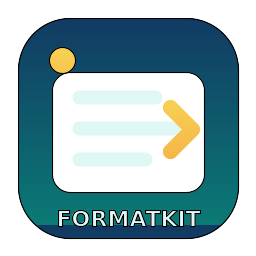
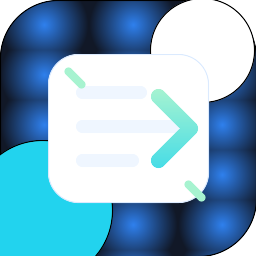
Remove personal branding and refresh artwork

diff --git a/src/extension.ts b/src/extension.ts
@@ -79,7 +79,7 @@ export function activate(context: vscode.ExtensionContext) {
 	context.subscriptions.push(
 		vscode.languages.registerDocumentFormattingEditProvider("openhab", {
 			provideDocumentFormattingEdits: (document, options, token) => {
-				let config = vscode.workspace.getConfiguration("miethe-openhab-formatkit");
+				let config = vscode.workspace.getConfiguration("openhab-formatkit");
 				// Check the file type, clean the file and format it
 				if (document.fileName.includes(".sitemap")) {
 					return config.enableBetaFeatures ? formatSitemapFile() : undefined;
@@ -105,27 +105,27 @@ export function activate(context: vscode.ExtensionContext) {
 	);
 
 	// Insert a generic item
-	vscode.commands.registerCommand("miethe-openhab-formatkit.insert-item-generic", () => {
+	vscode.commands.registerCommand("openhab-formatkit.insert-item-generic", () => {
 		commandInsertNewGenericItem();
 	});
 	// Insert a Switch item
-	vscode.commands.registerCommand("miethe-openhab-formatkit.insert-item-switch", () => {
+	vscode.commands.registerCommand("openhab-formatkit.insert-item-switch", () => {
 		commandInsertNewSwitchItem();
 	});
 	// Insert a Dimmer item
-	vscode.commands.registerCommand("miethe-openhab-formatkit.insert-item-dimmer", () => {
+	vscode.commands.registerCommand("openhab-formatkit.insert-item-dimmer", () => {
 		commandInsertNewDimmerItem();
 	});
 	// Insert a String item
-	vscode.commands.registerCommand("miethe-openhab-formatkit.insert-item-string", () => {
+	vscode.commands.registerCommand("openhab-formatkit.insert-item-string", () => {
 		commandInsertNewStringItem();
 	});
 	// Insert a Number item
-	vscode.commands.registerCommand("miethe-openhab-formatkit.insert-item-number", () => {
+	vscode.commands.registerCommand("openhab-formatkit.insert-item-number", () => {
 		commandInsertNewNumberItem();
 	});
 	// Insert a DateTime item
-	vscode.commands.registerCommand("miethe-openhab-formatkit.insert-item-datetime", () => {
+	vscode.commands.registerCommand("openhab-formatkit.insert-item-datetime", () => {
 		commandInsertNewDateTimeItem();
 	});
 
@@ -276,7 +276,7 @@ function formatItemFile(range?: vscode.Range): vscode.TextEdit[] {
 	var itemBlockCounter = 0;
 
 	// Get the format configuration settings
-	let config = vscode.workspace.getConfiguration("miethe-openhab-formatkit");
+	let config = vscode.workspace.getConfiguration("openhab-formatkit");
 	let preserveWhitespace = config.preserveWhitespace;
 	let newLineAfterItem = config.newLineAfterItem;
 
@@ -570,7 +570,7 @@ function formatThingFile(range?: vscode.Range): vscode.TextEdit[] {
 	let channelPending = false;
 
 	// Get the format configuration settings
-	let config = vscode.workspace.getConfiguration("miethe-openhab-formatkit");
+	let config = vscode.workspace.getConfiguration("openhab-formatkit");
 	let preserveWhitespace = config.preserveWhitespace;
 	let newLineAfterItem = config.newLineAfterItem;
 
@@ -832,7 +832,7 @@ function insertItem(type: string, name: string, label: string, icon: string, gro
  */
 function formatItem(item: Item): string {
 	// Get the configuration settings
-	let config = vscode.workspace.getConfiguration("miethe-openhab-formatkit");
+	let config = vscode.workspace.getConfiguration("openhab-formatkit");
 	let formatStyle = item.formatOption ? item.formatOption : config.formatStyle;
 	let newLineAfterItem = config.newLineAfterItem;
 	let editor = vscode.window.activeTextEditor;
@@ -972,7 +972,7 @@ function formatItem(item: Item): string {
  */
 function formatThing(thing: Thing): string {
 	// Get the configuration settings
-	let config = vscode.workspace.getConfiguration("miethe-openhab-formatkit");
+	let config = vscode.workspace.getConfiguration("openhab-formatkit");
 	let formatStyle = config.formatStyle;
 	let newLineAfterItem = config.newLineAfterItem;
 	let multilineIndentAmount = config.multilineIndentAmount;
@@ -1029,8 +1029,8 @@ function formatThing(thing: Thing): string {
  *---------------------------------------------------------------------------------------------------------*/
 function registerWhatsNew(context: vscode.ExtensionContext) {
 	const provider = new BookmarksContentProvider();
-	const viewer = new WhatsNewManager(context).registerContentProvider("ManuelMiethe", "miethe-openhab-formatkit", provider).registerSocialMediaProvider(new BookmarksSocialMediaProvider()).registerSponsorProvider(new BookmarksSponsorProvider());
+	const viewer = new WhatsNewManager(context).registerContentProvider("ManuelMiethe", "openhab-formatkit", provider).registerSocialMediaProvider(new BookmarksSocialMediaProvider()).registerSponsorProvider(new BookmarksSponsorProvider());
 	viewer.showPageInActivation();
-	context.subscriptions.push(commands.registerCommand("miethe-openhab-formatkit.whatsNew", () => viewer.showPage()));
-	context.subscriptions.push(commands.registerCommand("_miethe-openhab-formatkit.whatsNewContextMenu", () => viewer.showPage()));
+	context.subscriptions.push(commands.registerCommand("openhab-formatkit.whatsNew", () => viewer.showPage()));
+	context.subscriptions.push(commands.registerCommand("_openhab-formatkit.whatsNewContextMenu", () => viewer.showPage()));
 }

diff --git a/src/contentProvider.ts b/src/contentProvider.ts
@@ -10,7 +10,7 @@ export class BookmarksContentProvider implements ContentProvider {
 	public provideHeader(logoUrl: string): Header {
 		return <Header>{
 			logo: <Image>{ src: logoUrl, height: 50, width: 40 },
-			message: `<b>Miethe openHAB FormatKit</b> This extension adds support for formatting and indenting <a href="http://www.openhab.org)">openHAB</a>
+			message: `<b>openHAB FormatKit</b> This extension adds support for formatting and indenting <a href="http://www.openhab.org)">openHAB</a>
 			files like <code>*.items</code>, <code>*.sitemap</code>, etc. At the moment only
 			<code>*.items</code> and <code>*.sitemap</code> files are supported. They can be formatted in a column channel-column
 			or multiline style. In the future the other file types and other format-types will be added.
@@ -32,11 +32,11 @@ export class BookmarksContentProvider implements ContentProvider {
 		});
 		changeLog.push({
 			kind: ChangeLogKind.CHANGED,
-			detail: "This maintained fork is published as Miethe openHAB FormatKit under ManuelMiethe.miethe-openhab-formatkit.",
+			detail: "This maintained fork is published as openHAB FormatKit with an independent package identity.",
 		});
 		changeLog.push({
 			kind: ChangeLogKind.CHANGED,
-			detail: "Support ongoing maintenance: Buy Manuel Miethe a coffee at https://www.buymeacoffee.com/mannemiethe",
+			detail: "Support ongoing maintenance through feedback, issues, and pull requests.",
 		});
 		changeLog.push({
 			kind: ChangeLogKind.CHANGED,
@@ -85,9 +85,9 @@ export class BookmarksContentProvider implements ContentProvider {
 	public provideSupportChannels(): SupportChannel[] {
 		const supportChannels: SupportChannel[] = [];
 		supportChannels.push({
-			title: "Buy Manuel Miethe a coffee",
-			link: "https://www.buymeacoffee.com/mannemiethe",
-			message: "Support ongoing maintenance",
+			title: "Project issues and feedback",
+			link: "https://github.com/mannemiethe/openHAB-Alignment-Tool/issues",
+			message: "Report bugs or request improvements",
 		});
 		supportChannels.push({
 			title: "PayPal donation for the original developer",

diff --git a/README.md b/README.md
@@ -1,23 +1,19 @@
 <div align="center">
-  <img width="520" src="images/formatkit-wordmark.png" alt="Miethe openHAB FormatKit">
+  <img width="520" src="images/formatkit-wordmark.png" alt="openHAB FormatKit">
 </div>
 
-# Miethe openHAB FormatKit
+# openHAB FormatKit
 
-Miethe openHAB FormatKit is an independently maintained Visual Studio Code extension for formatting and cleaning up openHAB configuration files such as `.items` and `.sitemap` files.
+openHAB FormatKit is an independently maintained Visual Studio Code extension for formatting and cleaning up openHAB configuration files such as `.items` and `.sitemap` files.
 
-This project is maintained by Manuel Miethe. It is **not affiliated with, endorsed by, or published by** the original `openHAB Alignment Tool` author or project. The codebase began as a maintained fork of the inactive open-source project by Maximilian Beckenbauer, and that origin is credited here for transparency. All marketplace branding, icon artwork, package identity, README wording, and command/settings namespace have been changed for this independent release.
-
-[![Visual Studio Marketplace Installs](https://img.shields.io/visual-studio-marketplace/i/ManuelMiethe.miethe-openhab-formatkit?color=blue&label=Installs&logo=visual-studio-code)](https://marketplace.visualstudio.com/items?itemName=ManuelMiethe.miethe-openhab-formatkit)
-[![Visual Studio Marketplace Version](https://img.shields.io/visual-studio-marketplace/v/ManuelMiethe.miethe-openhab-formatkit?color=orange&label=Version)](https://marketplace.visualstudio.com/items?itemName=ManuelMiethe.miethe-openhab-formatkit)
-[![Visual Studio Marketplace Rating](https://img.shields.io/visual-studio-marketplace/stars/ManuelMiethe.miethe-openhab-formatkit?label=Rating&logo=visual-studio-code)](https://marketplace.visualstudio.com/items?itemName=ManuelMiethe.miethe-openhab-formatkit)
+This is an independently maintained project. It is **not affiliated with, endorsed by, or published by** the original `openHAB Alignment Tool` author or project. The codebase began as a maintained fork of the inactive open-source project by Maximilian Beckenbauer, and that origin is credited here for transparency. All marketplace branding, icon artwork, package identity, README wording, and command/settings namespace have been changed for this independent release.
 
 ## What changed for the independent release
 
-- Extension display name changed to **Miethe openHAB FormatKit**.
-- Marketplace package ID changed to `ManuelMiethe.miethe-openhab-formatkit`.
+- Extension display name changed to **openHAB FormatKit**.
+- Marketplace package ID changed to `openhab-formatkit` under the existing publisher account.
 - Extension icon and README wordmark replaced with newly created artwork under `images/formatkit-*`.
-- Commands and settings moved to the `miethe-openhab-formatkit.*` namespace.
+- Commands and settings moved to the `openhab-formatkit.*` namespace.
 - README and extension messaging rewritten to make the independent maintenance status clear.
 - Attribution to the original open-source project is kept without implying affiliation or endorsement.
 
@@ -68,7 +64,7 @@ It also corrects space-based column padding when `editor.insertSpaces` is enable
 Insert a new line after each item unless a single empty line already exists.
 
 ```json
-"miethe-openhab-formatkit.newLineAfterItem": true
+"openhab-formatkit.newLineAfterItem": true
 ```
 
 ### Preserve Whitespace
@@ -76,7 +72,7 @@ Insert a new line after each item unless a single empty line already exists.
 Preserve leading whitespace in front of items while reformatting.
 
 ```json
-"miethe-openhab-formatkit.preserveWhitespace": true
+"openhab-formatkit.preserveWhitespace": true
 ```
 
 ### Minimum Indent Amount
@@ -84,7 +80,7 @@ Preserve leading whitespace in front of items while reformatting.
 Control the minimum separation of thing or item parts.
 
 ```json
-"miethe-openhab-formatkit.minimumIndentAmount": 4
+"openhab-formatkit.minimumIndentAmount": 4
 ```
 
 ### Format Style
@@ -96,7 +92,7 @@ Choose the formatter style:
 - `Multiline`
 
 ```json
-"miethe-openhab-formatkit.formatStyle": "Column"
+"openhab-formatkit.formatStyle": "Column"
 ```
 
 ### Enable Beta Features
@@ -104,7 +100,7 @@ Choose the formatter style:
 Enable beta formatting support for sitemap or thing files.
 
 ```json
-"miethe-openhab-formatkit.enableBetaFeatures": false
+"openhab-formatkit.enableBetaFeatures": false
 ```
 
 ## Special comment tags
@@ -131,15 +127,13 @@ Changes formatting for the following item definitions. Replace `%FORMATTING_STYL
 
 ## Attribution
 
-This project originated as a maintained fork of the inactive open-source project `maxbec/openHAB-Alignment-Tool` by Maximilian Beckenbauer. The current extension is independently maintained by Manuel Miethe and uses distinct marketplace identity, branding, and documentation.
+This project originated as a maintained fork of the inactive open-source project `maxbec/openHAB-Alignment-Tool` by Maximilian Beckenbauer. The current extension is independently maintained and uses distinct marketplace identity, branding, and documentation.
 
 Original project: <https://github.com/maxbec/openHAB-Alignment-Tool>
 
 ## Support
 
-If this maintained project helps you, you can support ongoing maintenance here:
-
-- ☕ [Buy Manuel Miethe a coffee](https://www.buymeacoffee.com/mannemiethe)
+If this maintained project helps you, stars, issues, and pull requests are welcome.
 
 ## More information
 

diff --git a/CHANGELOG.md b/CHANGELOG.md
@@ -1,22 +1,22 @@
-# Miethe openHAB FormatKit Change Log
+# openHAB FormatKit Change Log
 
 ## [2.2.0] - 09.06.2026
 
-- Rebranded the extension to **Miethe openHAB FormatKit**.
-- Changed Marketplace package identity to `ManuelMiethe.miethe-openhab-formatkit`.
+- Rebranded the extension to **openHAB FormatKit**.
+- Changed Marketplace package identity to `openhab-formatkit` under the existing publisher account.
 - Replaced the icon and README wordmark with newly created `formatkit` artwork.
 - Rewrote README and extension messaging to state independent maintenance and no affiliation with the original project.
-- Renamed install-facing settings and command IDs to the `miethe-openhab-formatkit.*` namespace.
+- Renamed install-facing settings and command IDs to the `openhab-formatkit.*` namespace.
 - Removed old logo assets from the maintained project.
 
 ## [2.1.10] - 01.05.2026
 
 - Moved support and original-author credit links to the top of the Marketplace README overview.
-- Added extension sponsor metadata pointing to Manuel Miethe's Buy Me a Coffee page.
+- Added extension sponsor metadata for ongoing maintenance.
 
 ## [2.1.9] - 01.05.2026
 
-- Updated Marketplace package identity for Manuel Miethe's maintained fork.
+- Updated Marketplace package identity for the maintained fork.
 - Renamed install-facing settings and command IDs for the maintained fork.
 - Added README notes for the maintained fork, fixed formatting bugs, and support links.
 
@@ -26,7 +26,7 @@
 - Continued the upstream package version from `2.1.7` to `2.1.8` instead of resetting to a year-based version.
 - Renamed extension package and display name to avoid colliding with the unmaintained original Marketplace listing.
 
-All notable changes to the Miethe openHAB FormatKit extension will be documented in this file.
+All notable changes to the openHAB FormatKit extension will be documented in this file.
 
 ## [2.1.6] - 30.04.2021
 

diff --git a/MARKETPLACE_REVIEW_EVIDENCE.md b/MARKETPLACE_REVIEW_EVIDENCE.md
@@ -1,8 +1,7 @@
 # Visual Studio Marketplace Review Evidence
 
-Extension: `ManuelMiethe.miethe-openhab-formatkit`  
-Display name: **Miethe openHAB FormatKit**  
-Maintainer: Manuel Miethe  
+Extension: `openhab-formatkit` under the existing publisher account
+Display name: **openHAB FormatKit**
 Review issue: impersonation concern
 
 ## Summary
@@ -11,8 +10,8 @@ The extension has been rebranded so it is clearly distinct from the inactive ori
 
 ## Changes applied
 
-- Changed the extension package name from the previous maintained-fork identity to `miethe-openhab-formatkit`.
-- Changed the Marketplace display name to **Miethe openHAB FormatKit**.
+- Changed the extension package name to `openhab-formatkit`.
+- Changed the Marketplace display name to **openHAB FormatKit**.
 - Replaced the extension icon with newly created artwork:
   - `images/formatkit-icon.svg`
   - `images/formatkit-icon.png`
@@ -26,10 +25,10 @@ The extension has been rebranded so it is clearly distinct from the inactive ori
   - `images/logo_text.svg`
   - `images/vscode-oh-alignment-tool-logo-readme.png`
 - Rewrote the README introduction and attribution section to clearly state:
-  - this is independently maintained by Manuel Miethe,
+  - this is independently maintained,
   - it is not affiliated with or endorsed by the original project or author,
   - the original open-source project is credited only for transparent attribution.
-- Renamed commands and settings to the new namespace `miethe-openhab-formatkit.*`.
+- Renamed commands and settings to the new namespace `openhab-formatkit.*`.
 - Updated in-extension what's-new/messaging text to the new brand.
 - Added a `2.2.0` changelog entry documenting the rebrand.
 
